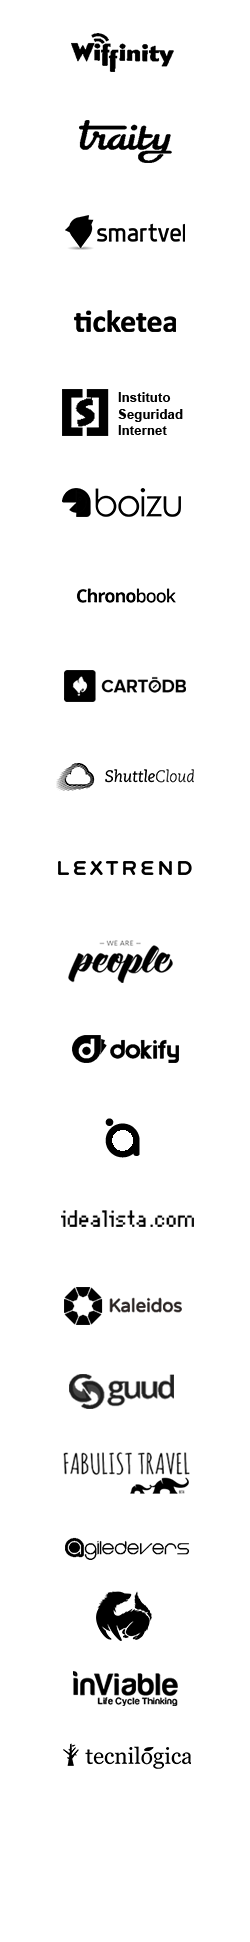
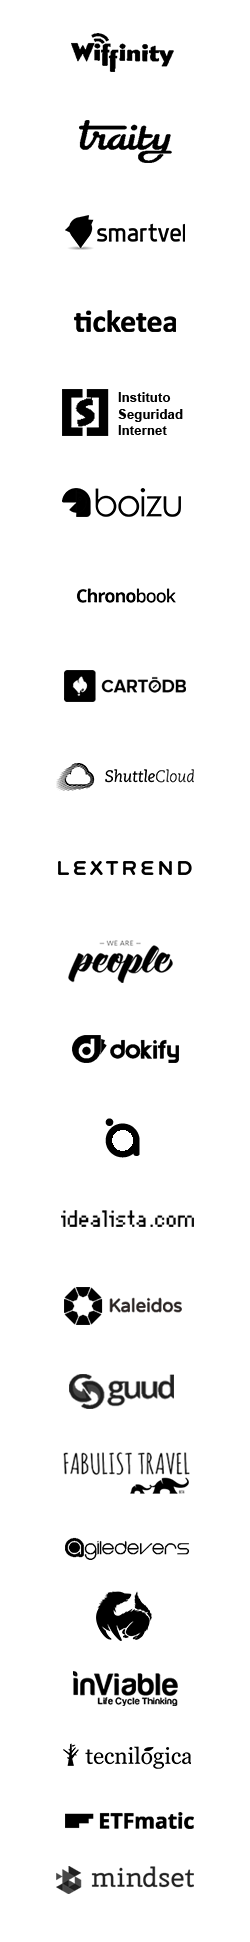
Add mindset and ETFmatic partners

Changed region(s): [[0.364, 0.9269, 0.784, 0.9887], [0.224, 0.9269, 0.364, 0.9887]]

diff --git a/partners.html b/partners.html
@@ -159,6 +159,16 @@
 						tecnilogica
 					</a>
 				</li>
+				<li>
+					<a href="http://mindset.tech/" target="_blank" class="icons-all-partners ic-27">
+						mindset
+					</a>
+				</li>
+				<li>
+					<a href="https://etfmatic.com/" target="_blank" class="icons-all-partners ic-28">
+						ETFmatic
+					</a>
+				</li>
 			</ul>
 		</section>
 	</article>

diff --git a/assets/scss/partials/_partner.scss b/assets/scss/partials/_partner.scss
@@ -179,6 +179,12 @@ article {
 							&.ic-26 {
 								background-position: -50px -1714px;
 							}
+							&.ic-27 {
+								background-position: -47px -1839px;
+							}
+							&.ic-28 {
+								background-position: -50px -1779px;
+							}
 						}
 					}
 				} 
